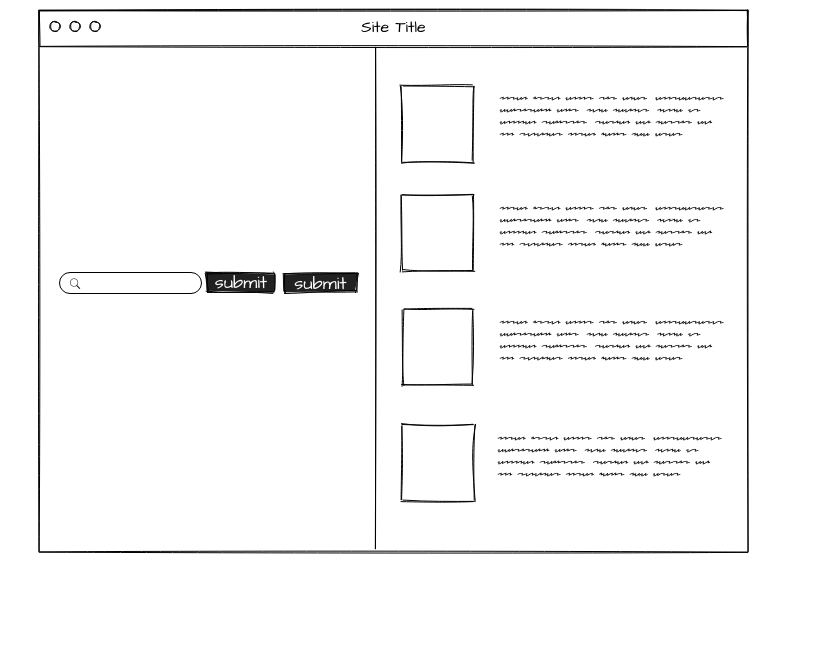
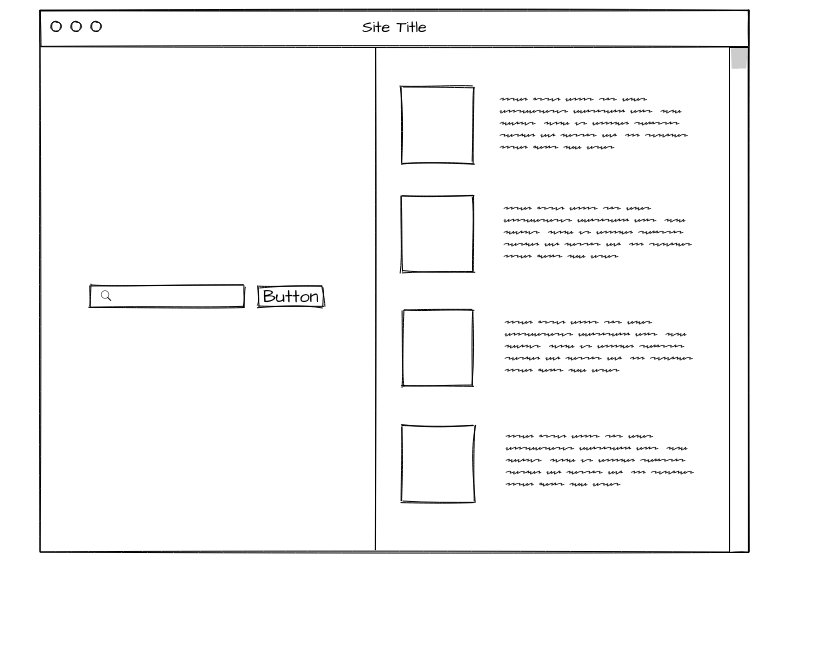
updated mockup image & added css

diff --git a/css/styles.css b/css/styles.css
@@ -67,6 +67,7 @@ input {
     background-size: auto 100vh;
     background-position: -40vw 0;
     background-repeat: no-repeat;
+    overflow: scroll;
     width: 60vw;
     height: 100vh;
     
@@ -79,9 +80,18 @@ input {
     text-transform: capitalize;
     font-family: Arial, Helvetica, sans-serif;
     font-size: 14px;
+    
+}
+
+.list {
     display: grid;
     grid-template-rows: auto;
     gap: 2em;
+    
+}
+
+li {
+    list-style-type: none;
     
 }
 
